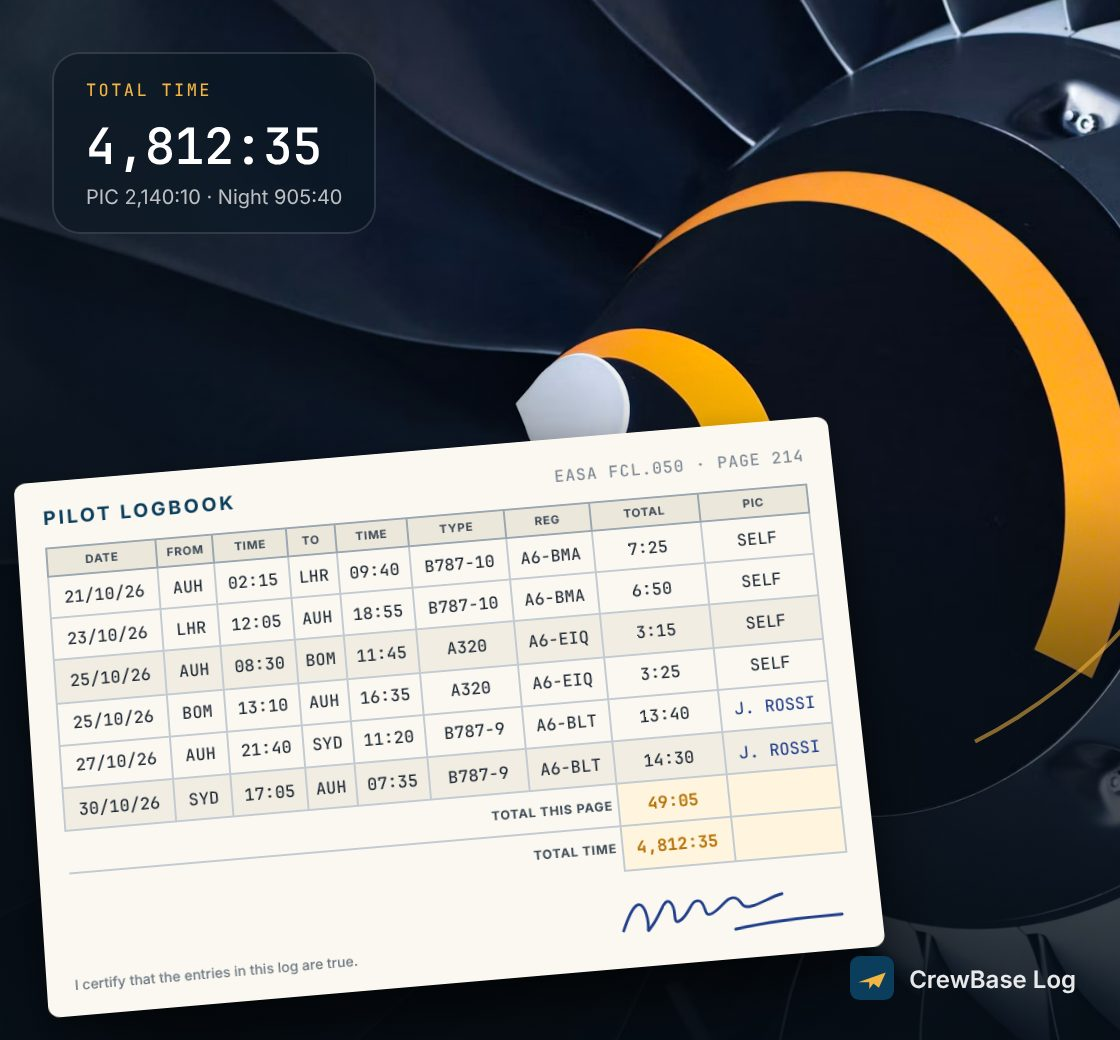
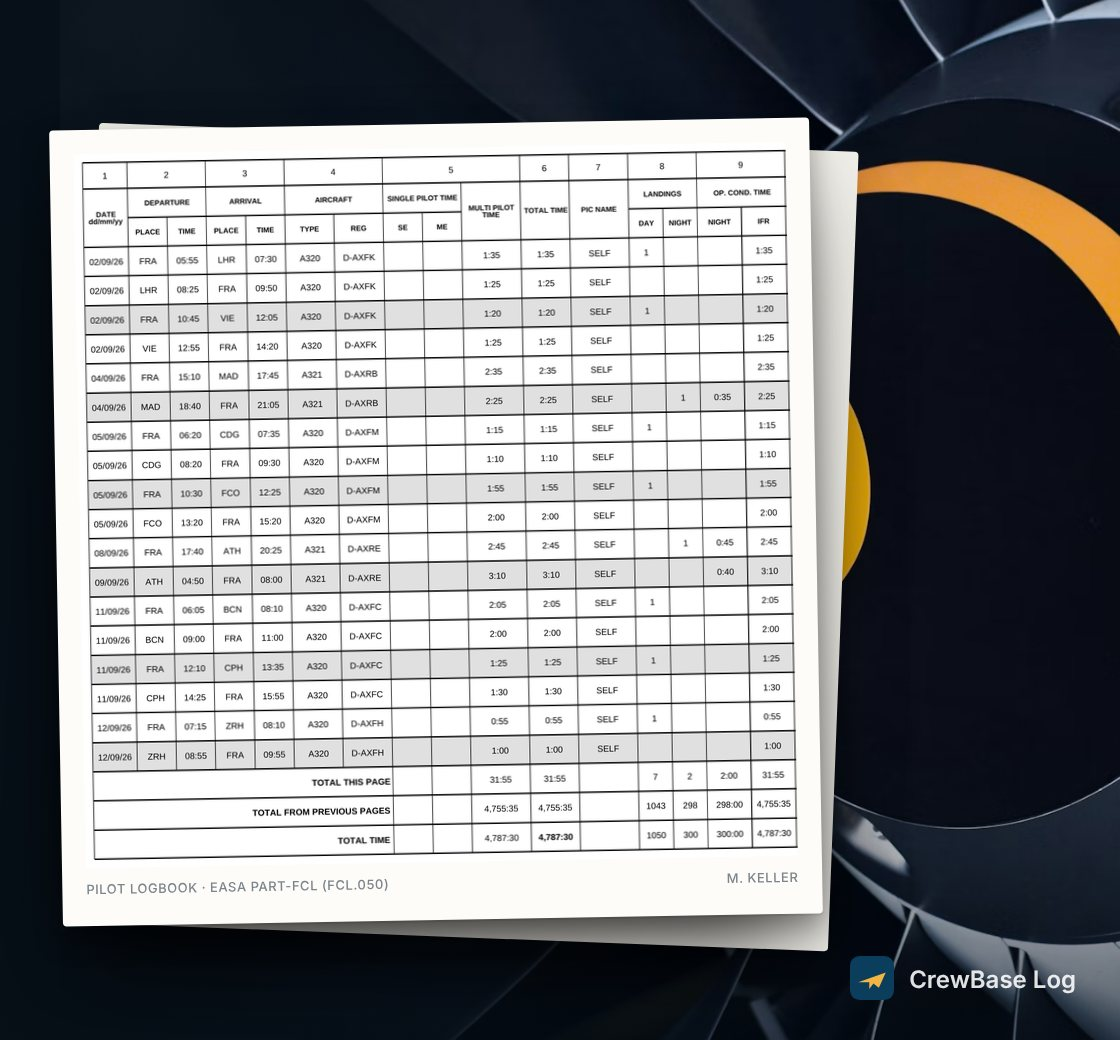
Landing page: hero image with a real EASA logbook page
Replace the hand-drawn logbook card with a page produced by the app's
own EASA (FCL.050) PDF generator: 18 A320/A321 sectors out of Frankfurt
(LHR, VIE, MAD, CDG, FCO, ATH, BCN, CPH, ZRH) with carried-forward
totals, cropped at the IFR column, laid almost flat on a second sheet
over the darkened engine photo. No frosted card or drawn signature.

Claude-Session: https://claude.ai/code/session_01WEy21rXpTdn6wfRsUnq7YK

diff --git a/index.html b/index.html
@@ -82,7 +82,7 @@ footer .wrap{display:flex;justify-content:space-between;gap:12px;flex-wrap:wrap}
     </div>
     <picture class="hero-art">
       <source srcset="/img/hero-logbook.webp" type="image/webp">
-      <img src="/img/hero-logbook.jpg" width="560" height="520" alt="A pilot logbook page with recent flights and page totals, lying in front of a jet engine fan">
+      <img src="/img/hero-logbook.jpg" width="560" height="520" alt="An EASA pilot logbook page of A320 flights from Frankfurt, with page totals, lying in front of a jet engine fan">
     </picture>
   </div>
 
